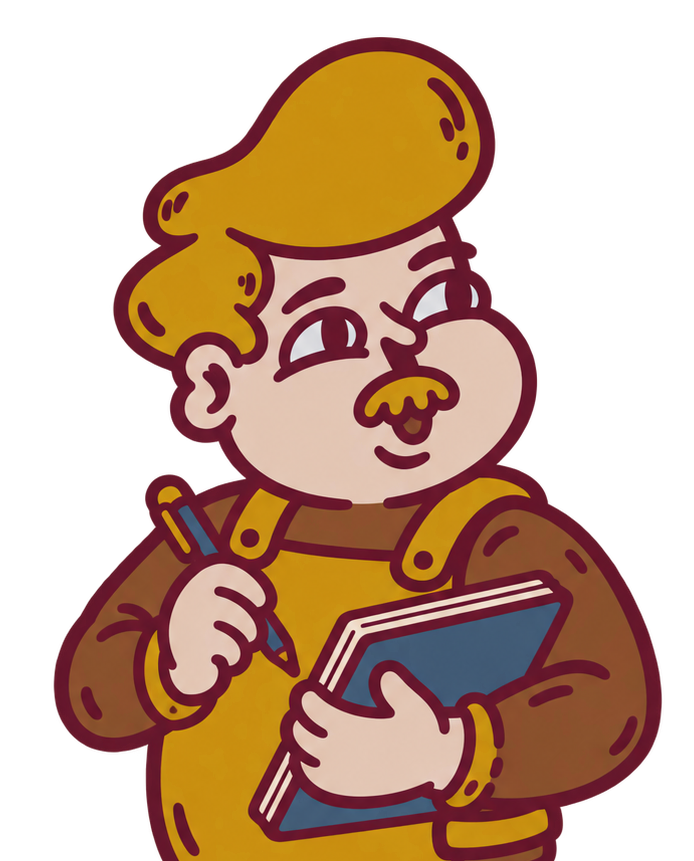
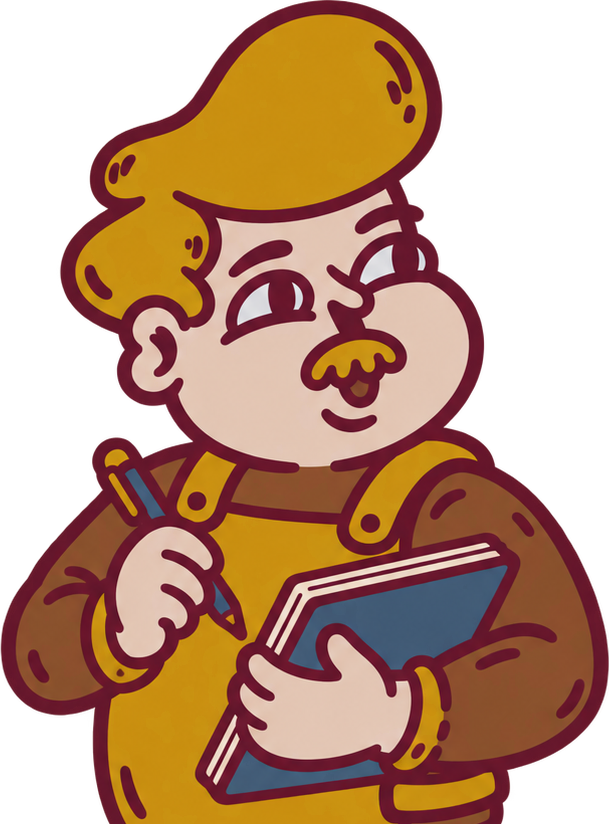
Login: el personaje sale del recuadro sin margen; boton de Descargar app (PWA)
- login-audit-fat.png recortado al borde real del personaje (sin el margen
  transparente sobrante) y superpuesto al recuadro blanco con margen
  negativo + z-index, en vez de flotar separado arriba
- InstalarApp.jsx + utils/pwaInstall.js: mismo patron que coteja-frontend -
  en Chrome/Edge (escritorio/Android) dispara el instalador nativo via
  beforeinstallprompt; en iOS Safari (que nunca dispara ese evento) muestra
  el paso a paso manual (Compartir -> Agregar a pantalla de inicio); se
  oculta si ya esta instalada o el navegador no soporta ninguna de las dos vias
- boton agregado en el header mobile y en la barra lateral de escritorio,
  junto a la campana de notificaciones

diff --git a/src/components/InstalarApp.jsx b/src/components/InstalarApp.jsx
@@ -1,0 +1,82 @@
+import { useEffect, useState } from 'react';
+import { Modal } from './ui';
+import { obtenerPromptCapturado, suscribirsePrompt } from '../utils/pwaInstall';
+
+function esIOS() {
+  return /iPad|iPhone|iPod/.test(navigator.userAgent) && !window.MSStream;
+}
+
+function yaInstalada() {
+  return window.matchMedia('(display-mode: standalone)').matches || window.navigator.standalone === true;
+}
+
+// Botón de "descargar/instalar como app" (mismo patrón que coteja-frontend/
+// src/components/InstalarApp.jsx). En Chrome/Edge (escritorio y Android) el
+// click dispara el instalador nativo del navegador vía beforeinstallprompt -
+// no hace falta UI propia. iOS Safari nunca dispara ese evento, así que ahí
+// el click muestra el paso a paso manual (Compartir -> Agregar a pantalla de
+// inicio). Si no hay prompt nativo disponible y no es iOS (navegador sin
+// soporte, o ya instalada), el botón no se muestra.
+export default function InstalarApp() {
+  const [prompt, setPrompt] = useState(() => obtenerPromptCapturado());
+  const [mostrarInstrucciones, setMostrarInstrucciones] = useState(false);
+  const [instalada, setInstalada] = useState(true);
+
+  useEffect(() => {
+    setInstalada(yaInstalada());
+    return suscribirsePrompt(setPrompt);
+  }, []);
+
+  if (instalada) return null;
+  if (!prompt && !esIOS()) return null;
+
+  async function onClick() {
+    if (prompt) {
+      prompt.prompt();
+      await prompt.userChoice;
+      setPrompt(null);
+    } else {
+      setMostrarInstrucciones(true);
+    }
+  }
+
+  return (
+    <>
+      <button
+        onClick={onClick}
+        aria-label="Descargar app"
+        title="Descargar FAT Audit como app"
+        className="text-gray-500 hover:text-gray-700 p-1.5"
+      >
+        <svg width="20" height="20" viewBox="0 0 24 24" fill="none" stroke="currentColor" strokeWidth="1.8" strokeLinecap="round" strokeLinejoin="round" aria-hidden="true">
+          <path d="M7 16a4 4 0 01-.5-7.97A5 5 0 0116.9 6.34 4 4 0 0118 14h-1" />
+          <path d="M12 12v6" />
+          <path d="M9 15l3 3 3-3" />
+        </svg>
+      </button>
+
+      {mostrarInstrucciones && (
+        <Modal titulo="Descargar FAT Audit" onClose={() => setMostrarInstrucciones(false)}>
+          <div className="space-y-4 text-sm text-gray-700">
+            <img src="/brand/fatburger_logo.png" alt="FAT Audit" className="w-14 h-14 rounded-xl mx-auto object-contain" />
+            <p className="text-center">Instalá FAT Audit en tu pantalla de inicio para acceder más rápido, como una app.</p>
+            <ol className="space-y-3">
+              <li className="flex items-start gap-3">
+                <span className="shrink-0 w-6 h-6 flex items-center justify-center rounded-full bg-fat-bordo-100 text-fat-bordo-800 text-xs font-semibold">1</span>
+                <span>Tocá el ícono <strong>Compartir</strong> (el cuadrado con la flecha hacia arriba) en la barra del navegador.</span>
+              </li>
+              <li className="flex items-start gap-3">
+                <span className="shrink-0 w-6 h-6 flex items-center justify-center rounded-full bg-fat-bordo-100 text-fat-bordo-800 text-xs font-semibold">2</span>
+                <span>Deslizá hacia abajo y tocá <strong>"Agregar a pantalla de inicio"</strong>.</span>
+              </li>
+              <li className="flex items-start gap-3">
+                <span className="shrink-0 w-6 h-6 flex items-center justify-center rounded-full bg-fat-bordo-100 text-fat-bordo-800 text-xs font-semibold">3</span>
+                <span>Tocá <strong>"Agregar"</strong> para confirmar.</span>
+              </li>
+            </ol>
+          </div>
+        </Modal>
+      )}
+    </>
+  );
+}

diff --git a/src/components/Layout.jsx b/src/components/Layout.jsx
@@ -3,6 +3,7 @@ import { NavLink, Outlet, useLocation } from 'react-router-dom';
 import { useAuth } from '../context/AuthContext';
 import { api } from '../api/client';
 import { soportaPush, suscripcionActual, activarPush, desactivarPush } from '../utils/push';
+import InstalarApp from './InstalarApp';
 
 // Misma apariencia en la barra lateral de escritorio y en el panel de
 // celular - ambas son listas verticales, a diferencia del viejo menú
@@ -148,8 +149,9 @@ export default function Layout() {
           ))}
         </nav>
         <div className="border-t border-gray-100 p-3 space-y-2 shrink-0">
-          <div className="px-1">
+          <div className="flex items-center gap-1 px-1">
             <CampanaNotificaciones />
+            <InstalarApp />
           </div>
           <p className="text-xs text-gray-500 truncate px-1">{usuario.nombre || usuario.email} · {usuario.rol}</p>
           <button onClick={logout} className="text-xs text-fat-bordo-600 hover:underline px-1">Salir</button>
@@ -169,7 +171,10 @@ export default function Layout() {
               </button>
               <img src="/brand/fatburger_logo.png" alt="FAT Audit" className="h-8" />
             </div>
-            <CampanaNotificaciones />
+            <div className="flex items-center gap-1">
+              <CampanaNotificaciones />
+              <InstalarApp />
+            </div>
           </div>
         </header>
 

diff --git a/src/pages/Login.jsx b/src/pages/Login.jsx
@@ -27,9 +27,11 @@ export default function Login() {
 
   return (
     <div className="min-h-screen flex flex-col items-center justify-center px-4 py-8" style={{ backgroundColor: '#54818B' }}>
-      {/* Único recurso visual del login - sin texto ni rectángulo blanco detrás, tal como pide la spec. */}
-      <img src="/brand/login-audit-fat.png" alt="FAT Audit" className="w-48 sm:w-56 h-auto mb-6 drop-shadow-lg" />
-      <div className="w-full max-w-sm bg-white rounded-2xl shadow-xl p-8">
+      {/* Único recurso visual del login - sin texto ni rectángulo blanco detrás.
+          Se superpone al recuadro (margen negativo + z-index) para que el
+          personaje salga desde ahí, en vez de flotar separado arriba. */}
+      <img src="/brand/login-audit-fat.png" alt="FAT Audit" className="relative z-10 w-48 sm:w-56 h-auto -mb-16 sm:-mb-20 drop-shadow-lg pointer-events-none" />
+      <div className="w-full max-w-sm bg-white rounded-2xl shadow-xl p-8 pt-20 sm:pt-24">
         <form onSubmit={onSubmit} className="space-y-4">
           <Campo label="Usuario o email" type="text" required value={identificador} onChange={(e) => setIdentificador(e.target.value)} autoFocus />
           <Campo label="Contraseña" type="password" required value={password} onChange={(e) => setPassword(e.target.value)} />

diff --git a/src/utils/pwaInstall.js b/src/utils/pwaInstall.js
@@ -1,0 +1,29 @@
+// Chrome puede disparar "beforeinstallprompt" muy temprano, antes incluso
+// de que React termine de montar el arbol - si el listener recien se
+// registra en el useEffect de un componente, ese primer disparo se pierde
+// y el boton de instalar nunca se habilita en esa carga de pagina. Por eso
+// este modulo se importa de entrada en main.jsx (antes de renderizar la
+// app) y engancha el listener a nivel de modulo, guardando el evento
+// capturado para que cualquier componente lo pueda leer despues, llegue
+// tarde o no. (Mismo patron que coteja-frontend/src/utils/pwaInstall.js)
+let promptCapturado = null;
+const suscriptores = new Set();
+
+window.addEventListener('beforeinstallprompt', (e) => {
+  e.preventDefault();
+  promptCapturado = e;
+  suscriptores.forEach((cb) => cb(e));
+});
+
+window.addEventListener('appinstalled', () => {
+  promptCapturado = null;
+});
+
+export function obtenerPromptCapturado() {
+  return promptCapturado;
+}
+
+export function suscribirsePrompt(cb) {
+  suscriptores.add(cb);
+  return () => suscriptores.delete(cb);
+}

diff --git a/src/main.jsx b/src/main.jsx
@@ -2,6 +2,7 @@ import { StrictMode } from 'react'
 import { createRoot } from 'react-dom/client'
 import './index.css'
 import App from './App.jsx'
+import './utils/pwaInstall'
 
 if ('serviceWorker' in navigator) {
   window.addEventListener('load', () => {
